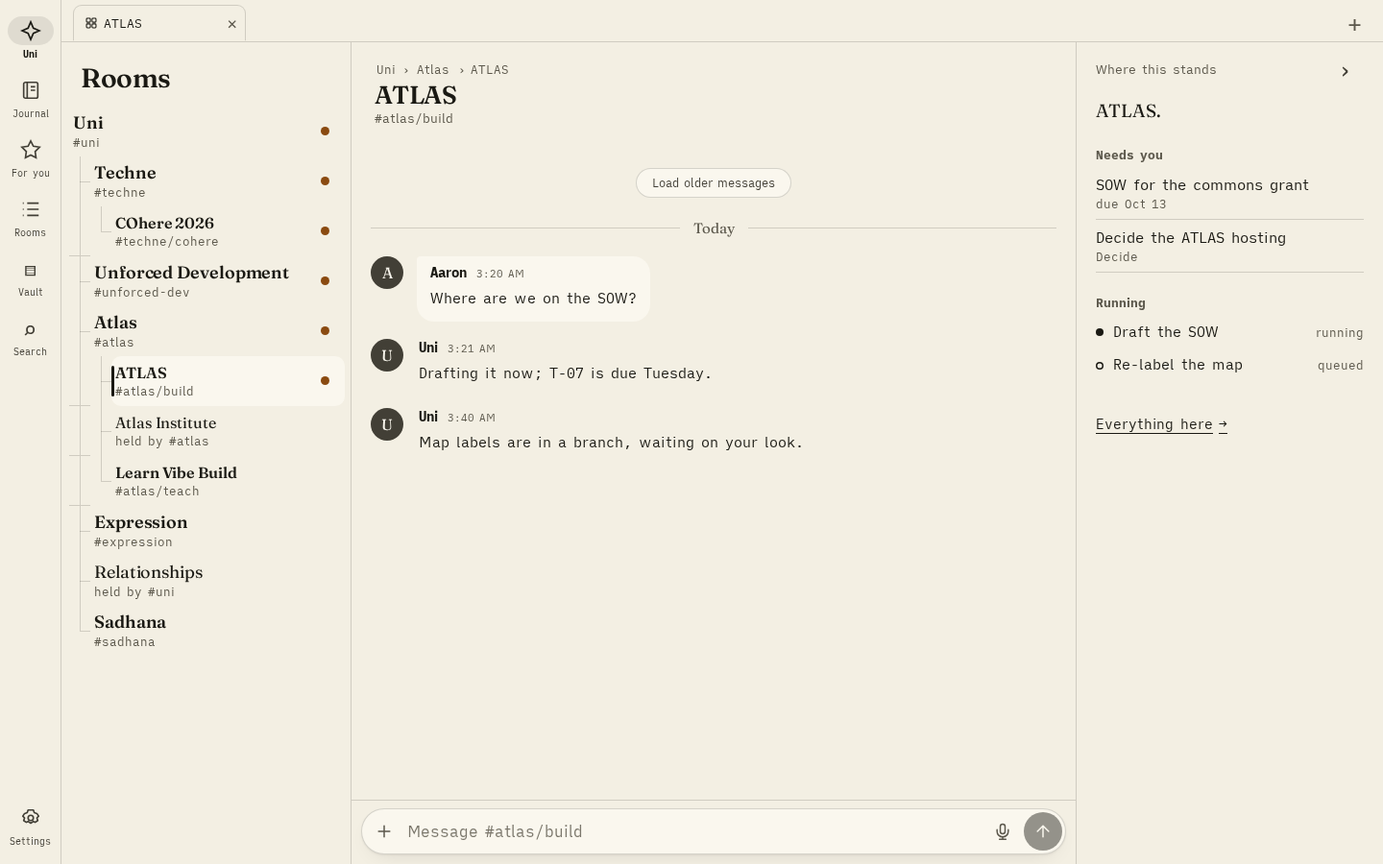
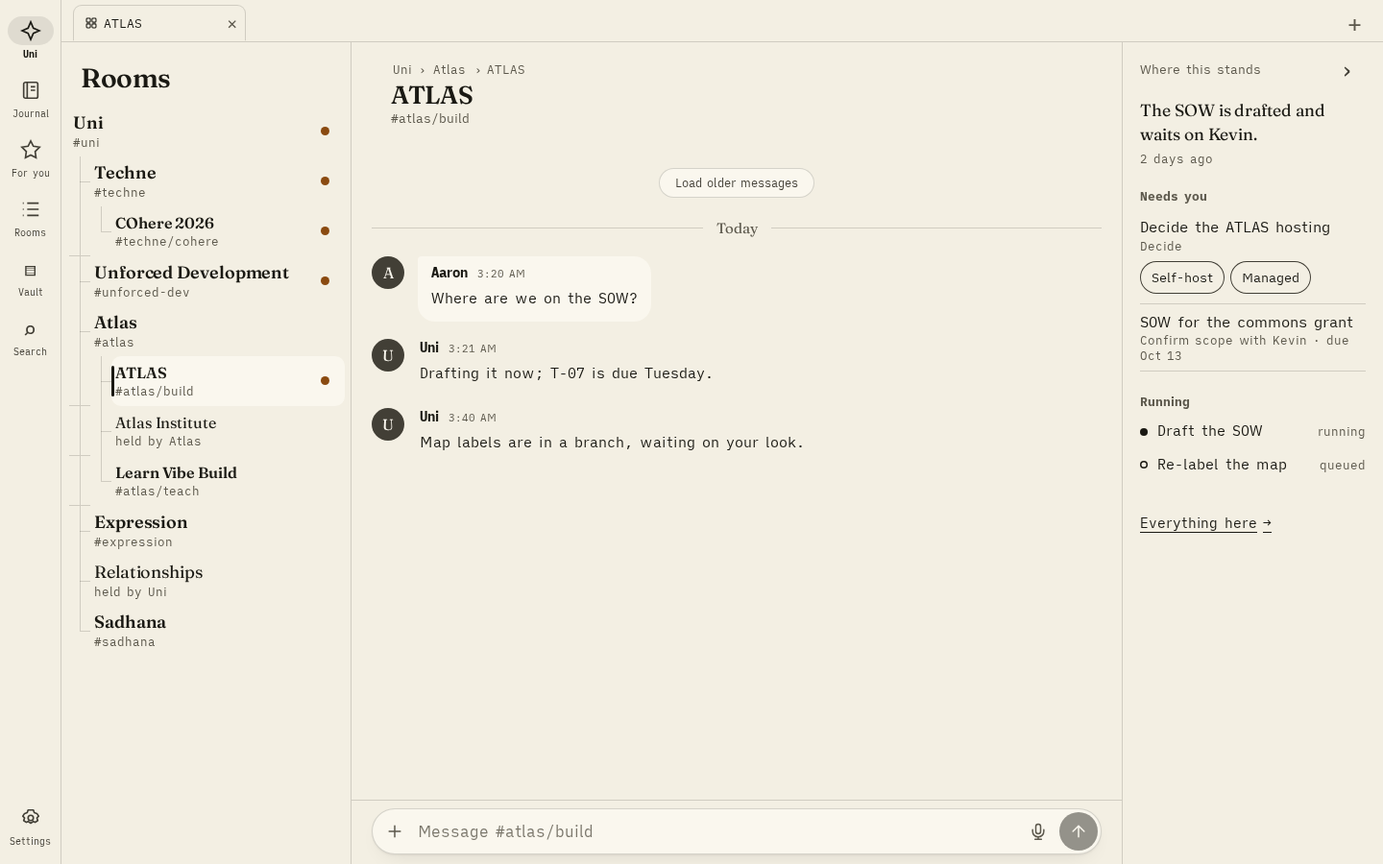
simple specs for the r2 behaviour: stands, three needs, decide, own dots, latest message, names, panel width; fixture gains run/decision/stands shapes (T-124 r2)

diff --git a/scripts/browser/simple.spec.ts b/scripts/browser/simple.spec.ts
@@ -54,25 +54,31 @@ test.describe('simple', () => {
     await shot(page, 'room');
   });
 
-  test('the companion: one sentence, at most three that need you, what is running; each item opens its task', async ({ page }) => {
+  test('the companion: where it stands (one sentence, quiet time), at most three that need you, what is running; each item opens its task', async ({ page }) => {
     await boot(page);
     await openRoom(page, 'ATLAS');
     await openCompanion(page);
     const cp = page.locator('.cp-body');
-    const lede = await cp.locator('.cp-lede').innerText();
-    expect(lede.trim().length).toBeGreaterThan(0);
-    expect((lede.match(/[.!?](\s|$)/g) ?? []).length).toBeLessThanOrEqual(1);
+    await expect(cp.locator('.cp-lede')).toContainText('The SOW is drafted and waits on Kevin.');
+    await expect(cp.locator('.cp-lede')).not.toContainText('The map comes next');
+    await expect(cp.locator('.cp-ago')).toHaveText('2 days ago');
     const needs = cp.getByRole('region', { name: 'Needs you' });
     await expect(needs.locator('.cp-need')).toHaveCount(2);
+    // the decision on this very node leads and carries its options as buttons
+    await expect(needs.locator('.cp-need').first()).toContainText('Decide the ATLAS hosting');
+    await expect(needs.locator('.cp-need').first()).toContainText('Decide');
+    await expect(needs.locator('.cp-opt')).toHaveText(['Self-host', 'Managed']);
     await expect(needs).toContainText('SOW for the commons grant');
-    await expect(needs).toContainText('Decide the ATLAS hosting');
+    await expect(needs).toContainText('Confirm scope with Kevin');
+    await expect(needs).toContainText('due Oct 13');
     const running = cp.getByRole('region', { name: 'Running', exact: true });
     await expect(running).toContainText('Draft the SOW');
-    await expect(running.locator('.cp-run')).toHaveCount(2); // running + queued; the finished one is not "running"
+    await expect(running).not.toContainText(/scratch|Runs\//);
+    await expect(running.locator('.cp-run')).toHaveCount(2); // running (T-125 shape) + queued (0.1.44 ledger); the finished one is not "running"
     await expect(running).not.toContainText('Summarise the grant call');
-    // no count badges, counters row, moved list, drafts or tasks here
-    await expect(cp.locator('.wr-counts, .th-h, .wr-h, em')).toHaveCount(0);
-    await expect(cp.getByText(/Moved this week|Drafts/)).toHaveCount(0);
+    // no count badges, counters row, moved list, drafts or tasks here, and no "+N more"
+    await expect(cp.locator('.wr-counts, .th-h, .wr-h, em, .cp-more')).toHaveCount(0);
+    await expect(cp.getByText(/Moved this week|Drafts|\d+ more|\d+ of \d+/)).toHaveCount(0);
     await shot(page, 'companion');
     // an item opens its task sheet
     await needs.locator('.cp-need[data-id="T-07"]').click();
@@ -80,7 +86,25 @@ test.describe('simple', () => {
     await page.keyboard.press('Escape');
   });
 
-  test('more than three need you: three show, Now first, and "+N more" goes to the full page', async ({ page }) => {
+  test('where it stands is the node\'s own sentence, never a count or the description', async ({ page }) => {
+    await boot(page);
+    await scope(page).locator('.th-go[aria-label^="Uni,"]').click();
+    await expect(page.locator('.sr-title')).toHaveText('Uni');
+    await openCompanion(page);
+    await expect(page.locator('.cp-lede')).toContainText('Atlas and COhere are moving');
+    await expect(page.locator('.cp-lede')).not.toContainText(/need you|areas/);
+    await openRoom(page, 'Learn Vibe Build');
+    await openCompanion(page);
+    await expect(page.locator('.cp-lede')).toContainText('Cohort two starts Oct 15');
+    await expect(page.locator('.cp-lede')).not.toHaveText(/^Learn Vibe Build\.?$/);
+    // a node with no `stands` says the latest thing in plain words, or nothing: never the description's first sentence
+    await openRoom(page, 'Atlas Institute');
+    await openCompanion(page);
+    const lede = page.locator('.cp-lede');
+    if (await lede.count()) await expect(lede).not.toHaveText('Atlas Institute.');
+  });
+
+  test('at most three need you, no "+N more"; "Everything here" goes to the full page', async ({ page }) => {
     await boot(page);
     if (!wide(page)) await expect(page.locator('.th-phone-tree')).toBeVisible();
     await scope(page).locator('.th-go[aria-label^="Uni,"]').click();
@@ -88,10 +112,38 @@ test.describe('simple', () => {
     await openCompanion(page);
     const needs = page.locator('.cp-body').getByRole('region', { name: 'Needs you' });
     await expect(needs.locator('.cp-need')).toHaveCount(3);
-    await expect(needs.locator('.cp-more')).toContainText(/^\+\d+ more$/);
-    await needs.locator('.cp-more').click();
+    await expect(page.locator('.cp-more')).toHaveCount(0);
+    await expect(page.locator('.cp-body')).not.toContainText(/\+\d+ more/);
+    await page.getByRole('button', { name: /^Everything here/ }).click();
     await expect(page.locator('.th-panel')).toBeVisible();
     await expect(page.locator('.wr-needs')).toBeVisible();
+  });
+
+  test('one tap on an option decides: a compare-and-set with the decided metadata', async ({ page }) => {
+    await boot(page);
+    await openRoom(page, 'ATLAS');
+    await openCompanion(page);
+    const needs = page.locator('.cp-body').getByRole('region', { name: 'Needs you' });
+    await needs.getByRole('button', { name: 'Self-host' }).click();
+    await expect.poll(async () => (await calls(page, 'vault_decide')).length).toBe(1);
+    const a = (await calls(page, 'vault_decide'))[0];
+    expect(a).toMatchObject({ id: 'dq2', from: 'open', to: 'decided', metadata: { decided: 'Self-host', decided_by: expect.any(String) } });
+    expect(Date.parse(a.metadata.decided_at)).not.toBeNaN();
+    await expect(needs).not.toContainText('Decide the ATLAS hosting');
+    await expect(needs).toContainText('SOW for the commons grant');
+  });
+
+  test('a decision someone else already decided says so and refreshes', async ({ page }) => {
+    await boot(page);
+    await openRoom(page, 'ATLAS');
+    await openCompanion(page);
+    const needs = page.locator('.cp-body').getByRole('region', { name: 'Needs you' });
+    await expect(needs.getByRole('button', { name: 'Managed' })).toBeVisible();
+    await page.evaluate(() => (window as any).__decideElsewhere('dq2'));
+    await needs.getByRole('button', { name: 'Managed' }).click();
+    await expect(page.getByRole('status').filter({ hasText: /already decided/i })).toBeVisible();
+    await expect(needs).not.toContainText('Decide the ATLAS hosting');
+    await expect.poll(async () => (await calls(page, 'vault_decide')).length).toBe(1);
   });
 
   test('the fold is remembered on this device', async ({ page }) => {
@@ -200,7 +252,7 @@ test.describe('simple', () => {
   test('a node held by an ancestor\'s room says so and writes to that room', async ({ page }) => {
     await boot(page);
     await openRoom(page, 'Atlas Institute');
-    await expect(page.locator('.sr-door')).toHaveText('held by #atlas');
+    await expect(page.locator('.sr-door')).toHaveText('held by Atlas');
     await expect(page.locator('.sr-chat').getByRole('textbox', { name: /^Message / })).toHaveAttribute('placeholder', 'Message #atlas');
   });
 
@@ -209,6 +261,11 @@ test.describe('simple', () => {
     await expect(scope(page).locator('.th-tag, .th-open, .th-stump, .th-door')).toHaveCount(0);
     await expect(scope(page).locator('.th-dot').first()).toBeVisible();
     await expect(scope(page).locator('.th-go[aria-label^="ATLAS,"] .th-sub')).toHaveText('#atlas/build');
+    await expect(scope(page).locator('.th-go[aria-label^="Atlas Institute,"] .th-sub')).toHaveText('held by Atlas');
+    // a dot only where the room's OWN node has something that needs you: ATLAS holds T-07, its parent Atlas holds nothing itself
+    await expect(scope(page).locator('.th-go[aria-label^="ATLAS,"] .th-dot')).toHaveCount(1);
+    await expect(scope(page).locator('.th-go[aria-label^="Atlas,"] .th-dot')).toHaveCount(0);
+    await expect(scope(page).locator('.th-go[aria-label^="Techne,"] .th-dot')).toHaveCount(1);
     await expect(scope(page).locator('.th-summary, .th-cap')).toHaveCount(0);
     await shot(page, 'rooms');
   });
@@ -224,8 +281,8 @@ test.describe('simple', () => {
     await shot(page, 'settings');
     if (await page.locator('.panel-close').count()) await page.locator('.panel-close').first().click();
     await rail.getByRole('button', { name: 'Rooms' }).click();
-    await page.locator('.rooms nav .room', { hasText: 'build' }).first().click();
-    await expect(page.locator('.conversation-header')).toContainText('build');
+    await page.locator('.rooms nav .room', { has: page.locator('strong', { hasText: /^ATLAS$/ }) }).click();
+    await expect(page.locator('.conversation-header')).toContainText('atlas/build');
     await expect(page.locator('.message').first()).toBeVisible();
     await shot(page, 'plain-room');
     expect(await fits(page)).toBe(true);
@@ -239,5 +296,85 @@ test.describe('simple', () => {
     await expect(page.getByRole('button', { name: /Open #|Hold to talk/ })).toHaveCount(0);
     expect(await fits(page)).toBe(true);
     await shot(page, 'chat-off');
+  });
+
+  test('the side panel is narrow (about 270px) and the conversation gets the space', async ({ page }) => {
+    test.skip(!wide(page), 'side panel is a desktop surface');
+    await boot(page);
+    await openRoom(page, 'ATLAS');
+    const side = (await page.locator('.cp.side').boundingBox())!;
+    expect(side.width).toBeGreaterThanOrEqual(250);
+    expect(side.width).toBeLessThanOrEqual(290);
+    const chat = (await page.locator('.sr').boundingBox())!;
+    expect(chat.width).toBeGreaterThan(side.width * 2);
+    expect(await fits(page)).toBe(true);
+  });
+
+  test('below 1100px wide the panel starts folded, and what the user chooses is remembered', async ({ page }) => {
+    test.skip(!wide(page), 'side panel is a desktop surface');
+    await page.setViewportSize({ width: 1000, height: 800 });
+    await boot(page);
+    await openRoom(page, 'ATLAS');
+    await expect(page.locator('.cp.side')).toHaveClass(/folded/);
+    await page.getByRole('button', { name: 'Show where this stands' }).click();
+    await expect(page.locator('.cp.side')).toHaveClass(/open/);
+    await page.reload();
+    await openRoom(page, 'ATLAS');
+    await expect(page.locator('.cp.side')).toHaveClass(/open/);
+  });
+
+  test('For you has no number, at most a quiet dot', async ({ page }) => {
+    await boot(page);
+    await expect(page.locator('.rail-count')).toHaveCount(0);
+  });
+
+  test('rooms open at the latest message, on open and on switching, and stay there while late layout lands', async ({ page }) => {
+    await boot(page, { longChat: true });
+    const atEnd = () => page.locator('.sr-chat .message-list').evaluate((el) => el.scrollHeight - el.scrollTop - el.clientHeight);
+    await openRoom(page, 'ATLAS');
+    await expect(page.locator('.sr-chat')).toContainText('The newest line of this room.');
+    await expect.poll(atEnd).toBeLessThan(6);
+    // late layout (an image, older rows) grows the list above the reader: still at the end
+    await page.locator('.sr-chat .message-list').evaluate((el) => { const pad = document.createElement('div'); pad.style.height = '900px'; pad.dataset.late = '1'; el.firstElementChild?.prepend(pad); });
+    await expect.poll(atEnd).toBeLessThan(6);
+    await openRoom(page, 'Learn Vibe Build');
+    await expect(page.locator('.sr-chat')).toContainText('The newest line of this room.');
+    await expect.poll(atEnd).toBeLessThan(6);
+    await page.waitForTimeout(1700);
+    expect(await atEnd()).toBeLessThan(6);
+    // and back to the first room: its newest message again, not where it was left
+    await page.locator('.sr-chat .message-list').evaluate((el) => { el.scrollTop = 0; });
+    await openRoom(page, 'ATLAS');
+    await expect.poll(atEnd).toBeLessThan(6);
+  });
+
+  test('the rooms drawer uses the tree\'s names; sync and sign-in status live in Settings', async ({ page }) => {
+    await page.emulateMedia({ reducedMotion: 'no-preference' });
+    await boot(page);
+    const rail = page.getByRole('navigation', { name: 'Main navigation' });
+    await rail.getByRole('button', { name: 'Rooms' }).click();
+    const drawer = page.locator('aside.rooms');
+    await expect(drawer.locator('nav .room strong', { hasText: 'Learn Vibe Build' })).toBeVisible();
+    await expect(drawer.locator('nav .room strong', { hasText: /^teach$/ })).toHaveCount(0);
+    await expect(drawer.locator('nav .room strong', { hasText: /^ATLAS$/ })).toBeVisible();
+    await expect(drawer.locator('.connection, .identity')).toHaveCount(0);
+    // no slide: the drawer and the conversation do not animate
+    await expect(drawer).toHaveCSS('animation-name', 'none');
+    await expect(page.locator('section.conversation')).toHaveCSS('animation-name', 'none');
+    if (!wide(page)) await page.locator('.panel-close').first().click();
+    await rail.getByRole('button', { name: 'Settings' }).click();
+    await expect(page.locator('.settings .connection')).toBeVisible();
+    await expect(page.locator('.settings .identity')).toBeVisible();
+  });
+
+  test('back from a child goes to its parent with no sliding drawer over the conversation', async ({ page }) => {
+    await page.emulateMedia({ reducedMotion: 'no-preference' });
+    await boot(page);
+    await openRoom(page, 'Learn Vibe Build');
+    if (wide(page)) await page.locator('.sr .th-crumb', { hasText: 'Atlas' }).click(); else await page.locator('.sr-back').click();
+    if (!wide(page)) await expect(scope(page)).toBeVisible();
+    await expect(page.locator('aside.rooms')).toBeHidden();
+    await expect(page.locator('.sr-head, .th-phone-tree').first()).toBeVisible();
+    await expect(page.locator('.sr-head, .th-phone-tree').first()).toHaveCSS('animation-name', 'none');
   });
 });

diff --git a/scripts/browser/areasFixture.ts b/scripts/browser/areasFixture.ts
@@ -174,6 +174,8 @@ export type BootOpts = {
   atlas?: boolean;
   /** T-122 steer: ATLAS (needs `atlas`, `tasks`) holds T-07 (due Tue 10-13), a decision, run ledger notes and draft notes, and #atlas/build has a day's messages. `window.__setDue(id, due)` moves a task as a room would. */
   steer?: boolean;
+  /** T-124 r2: #atlas/build and #atlas/teach hold sixty messages each, so a room has history to open at the end of. */
+  longChat?: boolean;
   /** T-111: a project (Ricki) whose room is archived, with `room_fallback` naming the room that holds it. */
   ricki?: boolean;
   /** T-111 rooms nav: Sadhana (a private area) holds tasks too. */
@@ -202,7 +204,7 @@ export async function bootAreas(page: Page, variant: Variant = 'seed', opts: Boo
   const now = Math.floor((opts.pinned ? pinnedAt : Date.now()) / 1000);
   const data = {
     profileNote: opts.profileNote ?? null, lifeVault: opts.lifeVault ?? null, now, variant, selftest: opts.selftest ?? true, ipcLeak: opts.ipcLeak ?? false, hostile: hostileApp(opts.ports ?? { http: 9, udp: 9 }), benign: BENIGN, techne: seed('techne'), unforced: seed('unforced'), seedMeta,
-    apps: opts.apps ?? [], multiRoom: !!opts.multiRoom || !!opts.tree, tree: !!opts.tree, tasks: !!opts.tasks, briefs: !!opts.briefs, queryDelay: opts.queryDelay ?? 0, identityDelay: opts.identityDelay ?? 0, roomsDelay: opts.roomsDelay ?? 0, nodeStatuses: opts.nodeStatuses ?? {}, nearOff: !!opts.nearOff, ids: !!opts.ids, boulder: !!opts.boulder, layout: opts.layout ?? 'octopus', underBoulder: !!opts.underBoulder, ricki: !!opts.ricki, atlas: !!opts.atlas, steer: !!opts.steer, privateTasks: !!opts.privateTasks, deviceCache: opts.deviceCache ?? null, queryFails: opts.queryFails ?? [], granted: opts.granted ?? true, webrtcOff: (opts.webrtc ?? 'off') === 'off', grantSeed: {} as Record<string, { scope: string; html: string }>, stripCsp: !!opts.stripCsp, versionFails: !!opts.versionFails, passUa: opts.passUa ?? null, mode: opts.mode ?? 'sealed', grantedUnder: opts.grantedUnder ?? (opts.mode ?? 'sealed'),
+    apps: opts.apps ?? [], multiRoom: !!opts.multiRoom || !!opts.tree, tree: !!opts.tree, tasks: !!opts.tasks, briefs: !!opts.briefs, queryDelay: opts.queryDelay ?? 0, identityDelay: opts.identityDelay ?? 0, roomsDelay: opts.roomsDelay ?? 0, nodeStatuses: opts.nodeStatuses ?? {}, nearOff: !!opts.nearOff, ids: !!opts.ids, boulder: !!opts.boulder, layout: opts.layout ?? 'octopus', underBoulder: !!opts.underBoulder, ricki: !!opts.ricki, atlas: !!opts.atlas, steer: !!opts.steer, longChat: !!opts.longChat, longChat: !!opts.longChat, privateTasks: !!opts.privateTasks, deviceCache: opts.deviceCache ?? null, queryFails: opts.queryFails ?? [], granted: opts.granted ?? true, webrtcOff: (opts.webrtc ?? 'off') === 'off', grantSeed: {} as Record<string, { scope: string; html: string }>, stripCsp: !!opts.stripCsp, versionFails: !!opts.versionFails, passUa: opts.passUa ?? null, mode: opts.mode ?? 'sealed', grantedUnder: opts.grantedUnder ?? (opts.mode ?? 'sealed'),
   };
   // Pre-granted apps: the grant key is the SHA-256 of the RESOLVED default needs plus the app's html.
   const preGrant = [
@@ -409,6 +411,7 @@ Two proposals wait on a scope decision.
       const a = notes.find((n) => n.id === 'a-atlas'); if (a) a.metadata = { ...a.metadata, channel: ATLAS, room: 'atlas' };
       const at = rooms.findIndex((r) => r.id === 'ch-atlas'); if (at >= 0) rooms.splice(at, 1);
       if (d.steer) msgs[BUILD] = [msg('b1', BUILD, 'Aaron', 2400, 'Where are we on the SOW?'), msg('b2', BUILD, 'Uni', 2300, 'Drafting it now; T-07 is due Tuesday.'), msg('b3', BUILD, 'Uni', 1200, 'Map labels are in a branch, waiting on your look.')];
+      if (d.longChat) for (const ch of [BUILD, TEACH]) msgs[ch] = Array.from({ length: 60 }, (_, i) => msg(`l${i}-${ch.slice(0, 4)}`, ch, i % 3 === 0 ? 'Aaron' : 'Uni', (60 - i) * 600, i === 59 ? 'The newest line of this room.' : `Message number ${i + 1} in the long history of this room, long enough to take a line or two of the list.`));
       rooms.push(room(ATLAS, 'atlas'), room(BUILD, 'atlas/build'), room(TEACH, 'atlas/teach'));
       const pr = (id: string, name: string, meta: Record<string, unknown>) => ({ id, path: `Projects/${name}`, extension: 'md', tags: ['project'], metadata: { status: 'foreground', summary: `${name}.`, parent: 'Areas/Atlas', ...meta }, updatedAt: '2026-10-08T00:00:00Z', content: `# ${name}\n\n${name}.` });
       notes.push(pr('p-atlas', 'ATLAS', { room: 'atlas/build', channel: BUILD }), pr('p-lvb', 'Learn Vibe Build', { room: 'atlas/teach', channel: TEACH }), pr('p-ai', 'Atlas Institute', { room: 'atlas' }));
@@ -418,11 +421,14 @@ Two proposals wait on a scope decision.
         mk('st7', 'T-07 SOW for the commons grant', 'Projects/ATLAS', { due: '2026-10-13', priority: 'now', next: 'Confirm scope with Kevin' }),
         mk('st8', 'T-08 Fix the map labels', 'Projects/ATLAS', { owner: 'room:atlas/build', state: 'doing', next: 'Branch is up' }),
         mk('st9', 'T-09 Atlas Institute site copy', 'Projects/Atlas Institute', { owner: 'uni' }),
-        mk('dq2', 'Decide the ATLAS hosting', 'Projects/ATLAS', { priority: 'soon' }, 'decision'));
+        mk('dq2', 'Decide the ATLAS hosting', 'Projects/ATLAS', { priority: 'soon', options: ['Self-host', 'Managed'] }, 'decision'));
       const run = (id: string, what: string, meta: Record<string, unknown>) => ({ id, path: `Runs/${id}`, extension: 'md', tags: ['run'], createdAt: T0, updatedAt: T0, metadata: { node: 'Projects/ATLAS', what, by: 'room:atlas/build', started: new Date((d.now - 600) * 1000).toISOString(), updated: new Date((d.now - 60) * 1000).toISOString(), ...meta } });
       const draft = (id: string, meta: Record<string, unknown>) => ({ id, path: `Drafts/${id}`, extension: 'md', tags: ['draft'], createdAt: T0, updatedAt: T0, metadata: { node: 'Projects/ATLAS', ...meta } });
-      notes.push(run('run-1', 'Draft the SOW', { task: 'T-07', state: 'running' }), run('run-2', 'Re-label the map', { task: 'T-08', state: 'queued' }), run('run-3', 'Summarise the grant call', { state: 'done', result: 'Drafts/Grant call summary' }),
+      // run-1 is the T-125 shape (summary, worker, started_at), the rest are the 0.1.44 ledger
+      notes.push({ id: 'run-1', path: 'Runs/scratch-atlas-sow', extension: 'md', tags: ['run'], createdAt: T0, updatedAt: T0, metadata: { node: 'Projects/ATLAS', task: 'T-07', state: 'running', summary: 'Draft the SOW', worker: 'sonnet', room: '#atlas/build', started_at: new Date((d.now - 600) * 1000).toISOString() } }, run('run-2', 'Re-label the map', { task: 'T-08', state: 'queued' }), run('run-3', 'Summarise the grant call', { state: 'done', result: 'Drafts/Grant call summary' }),
         draft('SOW commons grant', { task: 'T-07', status: 'drafting' }), draft('Grant call summary', { status: 'ready' }));
+      for (const [id, text] of [['p-atlas', 'The SOW is drafted and waits on Kevin. The map comes next.'], ['a-atlas', 'Atlas is mostly the grant this week.'], ['p-lvb', 'Cohort two starts Oct 15; grading briefs are queued.']]) { const n = notes.find((x) => x.id === id); if (n) n.metadata = { ...n.metadata, stands: text, stands_at: new Date((d.now - 2 * 86400) * 1000).toISOString() }; }
+      w.__decideElsewhere = (id: string) => { const t = taskNotes.find((x) => x.id === id); t.metadata.state = 'decided'; t.updatedAt = new Date(Date.now() + 9000).toISOString(); };
       w.__setDue = (id: string, due: string) => { const t = taskNotes.find((x) => x.id === id); t.metadata.due = due; t.updatedAt = new Date(Date.now() + 5000).toISOString(); t.lastUpdatedVia = 'mcp'; };
     }
     if (d.ricki) {
@@ -459,7 +465,7 @@ Two proposals wait on a scope decision.
           case 'vault_query': {
             if (d.queryDelay) await new Promise((r) => setTimeout(r, d.queryDelay));
             if ((d.queryFails as string[]).includes(args.tag)) throw 'query failed: ' + args.tag;
-            if (args.tag === 'node') return [{ id: 'uni-root', path: 'Uni', extension: 'md', tags: ['uni', 'node'], updatedAt: T0, metadata: {} }, ...notes.filter((n) => (n.tags ?? []).some((t: string) => t === 'area' || t === 'project')).map((n) => ({ ...n, tags: ['node', ...n.tags], content: undefined, metadata: { ...n.metadata, parent: n.metadata?.parent ?? (d.ids ? 'uni-root' : 'Uni') } }))];
+            if (args.tag === 'node') return [{ id: 'uni-root', path: 'Uni', extension: 'md', tags: ['uni', 'node'], updatedAt: T0, metadata: d.steer ? { stands: 'Atlas and COhere are moving; the usage guard is quiet.', stands_at: new Date((d.now - 86400) * 1000).toISOString() } : {} }, ...notes.filter((n) => (n.tags ?? []).some((t: string) => t === 'area' || t === 'project')).map((n) => ({ ...n, tags: ['node', ...n.tags], content: undefined, metadata: { ...n.metadata, parent: n.metadata?.parent ?? (d.ids ? 'uni-root' : 'Uni') } }))];
             return notes.filter((n) => (n.tags ?? []).includes(args.tag)).map((n) => ({ createdAt: '2026-09-01T00:00:00Z', metadata: {}, ...n, ...(args.includeContent === false ? { content: undefined } : {}) }));
           }
           case 'vault_query_meta': {
@@ -488,6 +494,15 @@ Two proposals wait on a scope decision.
             if (t.metadata['state'] !== args.from) throw `MCP error -32600: [transition_conflict] conflict: note ${args.id} ${'state'} is ${t.metadata['state']}, not ${args.from}`;
             if (!valid.includes(args.to)) throw '[schema_validation] state is not one of ' + valid.join(',');
             t.metadata['state'] = args.to; t.updatedAt = new Date(Date.now() + taskNotes.length).toISOString(); t.lastUpdatedVia = 'api';
+            return JSON.parse(JSON.stringify(t));
+          }
+          case 'vault_decide': {
+            const t = taskNotes.find((x) => x.id === args.id);
+            if (!t || !t.tags.includes('decision')) throw 'note not found: ' + args.id;
+            if (t.metadata['state'] !== args.from) throw `MCP error -32600: [transition_conflict] conflict: note ${args.id} state is ${t.metadata['state']}, not ${args.from}`;
+            const keys = Object.keys(args.metadata ?? {}).sort().join();
+            if (keys !== 'decided,decided_at,decided_by') throw 'invalid decision metadata: ' + keys;
+            t.metadata['state'] = args.to; Object.assign(t.metadata, args.metadata); t.updatedAt = new Date(Date.now() + taskNotes.length).toISOString(); t.lastUpdatedVia = 'api';
             return JSON.parse(JSON.stringify(t));
           }
           case 'vault_patch_meta': {

diff --git a/scripts/browser/nested.spec.ts b/scripts/browser/nested.spec.ts
@@ -23,12 +23,12 @@ test.describe('nested rooms', () => {
     await expect(scope.locator('.th-go[aria-label^="ATLAS,"]')).toContainText('atlas/build');
     await expect(scope.locator('.th-go[aria-label^="ATLAS,"]')).not.toContainText('atlas/atlas');
     await expect(scope.locator('.th-go[aria-label^="Learn Vibe Build,"]')).toContainText('atlas/teach');
-    await expect(scope.locator('.th-go[aria-label^="Atlas Institute,"]')).toContainText('held by #atlas');
+    await expect(scope.locator('.th-go[aria-label^="Atlas Institute,"]')).toContainText('held by Atlas');
     expect(await fits(page)).toBe(true);
     await shot(page, 'tree');
     // T-124: a node held by an ancestor's room opens that room's conversation, and says whose it is
     await scope.locator('.th-go[aria-label^="Atlas Institute,"]').click();
-    await expect(page.locator('.sr-door')).toHaveText('held by #atlas');
+    await expect(page.locator('.sr-door')).toHaveText('held by Atlas');
     await expect(page.locator('.sr-chat').getByRole('textbox', { name: /^Message / })).toHaveAttribute('placeholder', 'Message #atlas');
     if (!wide(page)) await page.locator('.sr-back').click();
     await scope.locator('.th-go[aria-label^="ATLAS,"]').click();

diff --git a/scripts/browser/treehome.spec.ts b/scripts/browser/treehome.spec.ts
@@ -64,7 +64,7 @@ test.describe('tree home', () => {
       const x = async (n: string) => (await page.locator(`.th-go[aria-label^="${n},"] .th-name`).boundingBox())!.x;
       expect(await x('COhere 2026')).toBeGreaterThan(await x('Boulder'));
       await expect(page.locator('.th-go[aria-label^="COhere 2026,"]')).toContainText('boulder/cohere');
-      await expect(page.locator('.th-go[aria-label^="Boulder Civic Calendar,"]')).toContainText('held by #boulder');
+      await expect(page.locator('.th-go[aria-label^="Boulder Civic Calendar,"]')).toContainText('held by Boulder');
       await expect(page.locator('.th-go[aria-label^="Techne,"]')).toHaveAttribute('aria-label', /2 need you|need/);
       await expect(page.locator('.th-go[aria-label^="Techne,"] .th-dot')).toBeVisible();
       for (const b of await page.locator('.th-go').all()) expect((await b.boundingBox())!.height).toBeGreaterThanOrEqual(44);

diff --git a/scripts/browser/roomsnav.spec.ts b/scripts/browser/roomsnav.spec.ts
@@ -53,7 +53,7 @@ test.describe('rooms nav', () => {
       await expect(nav.locator('.th-go[aria-current="page"]')).toHaveAttribute('data-path', '');
       for (const n of ['Boulder', 'COhere 2026', 'Techne', 'Unforced Development']) await expect(nav.locator(`.th-go[aria-label^="${n},"]`)).toBeVisible();
       await expect(nav.locator('.th-go[aria-label^="COhere 2026,"]')).toContainText('boulder/cohere');
-      await expect(nav.locator('.th-go[aria-label^="Boulder Civic Calendar,"]')).toContainText('held by #boulder');
+      await expect(nav.locator('.th-go[aria-label^="Boulder Civic Calendar,"]')).toContainText('held by Boulder');
       // the column stays while the level changes, and marks the selected one
       await page.locator('.th-roomnav .th-go[aria-label^="Techne,"]').click();
       await title(page, 'Techne');
